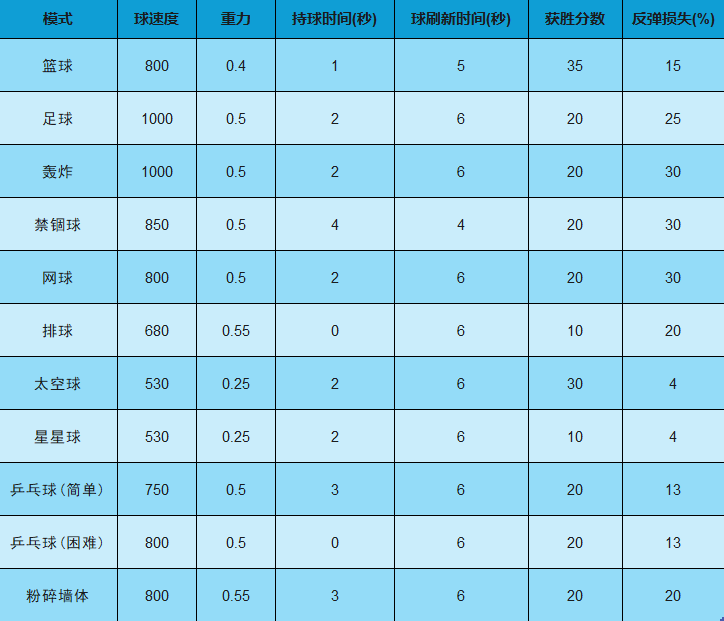
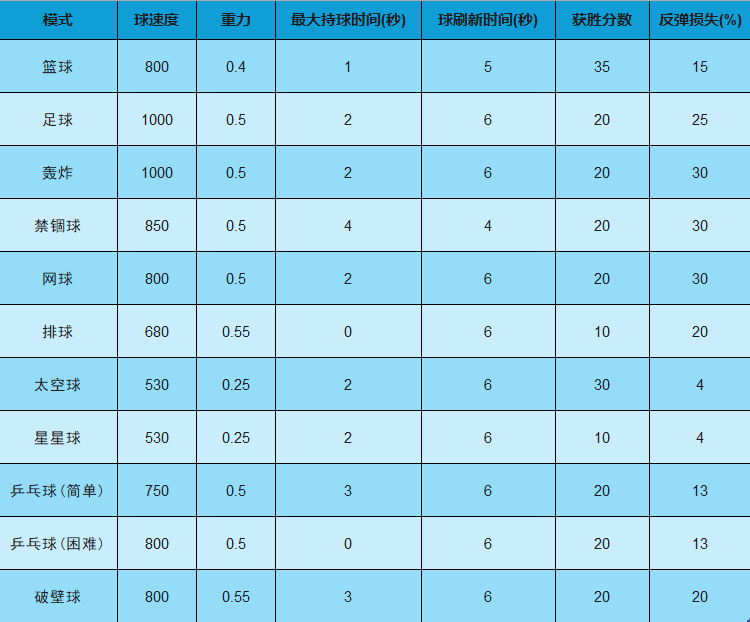
footwiki的保存

diff --git a/docs/modes/foot.md b/docs/modes/foot.md
@@ -1,86 +1,87 @@
 # Foot
-Foot，即[teefoot](https://github.com/unique-clan/football)，中文名称“球类运动”，最初由[unique-clan](https://github.com/unique-clan)团队发起制作。根据其官方自述文件，该项目目前由开发者 **GreYFoX** (又名 Shereef Marzouk) 负责重构。
+Foot，即[teefoot(football)](https://github.com/unique-clan/football)，中文俗称“球类运动”，是一款由[unique-clan](https://github.com/unique-clan)团队发起的休闲模式。根据其官方自述文档，该项目目前由开发者 **GreYFoX** (又名 Shereef Marzouk) 负责其重构工作。
 
 
 ## 模式玩法
-玩家分为人数均衡的两队进行对抗。每轮游戏开始一段时间后，场上固定区域会刷新出**可拾取的榴弹炮**，下文称之为**球**:
+玩家分为人数均衡的两队进行对抗。每轮游戏开始一段时间后，场上固定区域会刷新出一个可拾取的**榴弹炮**，它在此模式中将作为**“球”**使用。
 
 ![球](resources/foot/ball.jpg){.bordered-img tooltip="球"}
 
-触碰球玩家可将其捡起，并可以以任意角度进行发射。
+玩家触碰后即可拾取球，并可以向任意角度**投出**。
 
 ![射出的球](resources/foot/entityball.jpg){.bordered-img tooltip="射出的球"}
 
-将球射入球门后立即开始计算得分并结束本轮游戏，所有玩家重生。任意一队的分数达到规定分数后本局游戏结束。
+成功将球**射入**球门后，即会判定得分并结束本轮，所有玩家将立即重生，准备下一轮对抗。任意一队的分数达到规定分数后本局游戏结束。
 
 ### 关于球
-刷新出球后，聊天区会显示“**Ball Respawned**（球已刷新）”，此时任何玩家都可将其捡起。取走球后若持球玩家长时间不发射，则球会自动发射(护盾量为持球最大时长)。 持球者重生后，球会向着玩家重生前面向的方向自动发射。任何玩家都可以锤击持球玩家来抢夺其持有的球。
+当球刷新在场上时，聊天区会显示“**Ball Respawned**（球已刷新）”，此时任何玩家都可将其捡起。持球玩家若长时间未将球**投出**，球将会被自动**投出**（持球者的护盾值即为最大持球时间的倒计时）。持球者重生后，球会自动朝其重生时面向的方向飞出。任何玩家都可以通过**锤击**持球者来**抢断**此球。
 
 ![正在抢球的红蓝队玩家](resources/foot/catch.jpg){.bordered-img tooltip="正在抢球的红蓝队玩家"}
 
-若球在非榴弹枪状态下长时间无人取走，球会自行消失，并在一段时间后以榴弹枪的形式再次出现在刷新点。
+若场上的球长时间无人拾取，它会自行消失，并在一段时间后以榴弹炮的形式再次出现在刷新点。
 
 ### 得分
 **正常得分**
 
-一名玩家将球射入对手方球门时，记一次正常得分。屏幕会显示“XXX scored for red/blue team（XXX玩家为红/蓝队伍得分）”。
+一名玩家将球射入敌方球门时，记一次正常得分。屏幕会显示“XXX scored for red/blue team（XXX玩家为红/蓝队伍得分）”。
 
 **乌龙球**
 
 一名玩家将球射入己方球门时，记一次乌龙球。屏幕会显示“XXX scored for red/blue team（XXX玩家为红/蓝队伍得分）”。
 
-**传球得分**
+**助攻得分**
 
-若进球者的球在短时间内来自于其他玩家传来的球，则记一次传球得分，屏幕会显示“XXX scored for red/blue team with a pass from YYY（XXX玩家因YYY的传球而为红/蓝队伍得分）”。
+若进球者的球在短时间内来自于其他玩家的传球，则记一次助攻得分。屏幕会显示“XXX scored for red/blue team with a pass from YYY（XXX玩家因YYY的助攻而为红/蓝队伍得分）”。
 
 
 ### 模式
 不同模式下的球类玩法大不相同。
 
-- **足球 (football)**
-  得分方式：把球射进两队的球门中得分。
+- **足球 (football)**  
+  将球射入对方球门即可得分。
 
-- **篮球 (basketball)**
-  得分方式：把球射进两队上方的篮框中得分。 篮球模式共有五张地图，分别为1.0、2.0、3.0、4.0以及1.0的缩小版，其中1.0为最经典的地图。
-    - **特殊机制**: 启用了特殊的扣篮系统。
+- **篮球 (basketball)**  
+  将球投进两队上方的篮框中即可得分。篮球模式共有五张地图，分别为1.0、2.0、3.0、4.0以及1.0的缩小版，其中1.0为最经典的地图。
+    - **特殊机制**: 启用了独特的扣篮系统。
 
-- **轰炸 (bombing)**
-  类似于篮球，地图地形更为复杂，且球门变为两堵竖直墙体。
+- **轰炸 (bombing)**  
+  玩法类似于篮球，但地图地形更为复杂，且球门变为两堵竖直墙体。
 
-- **禁锢球 (soulball)**
-  禁锢球模式中，每名玩家都站在由即死区域围成的一小块范围内。 球出现在场地的上方，玩家可以释放钩索来争取发球权。 得分方式：把球射进球门得分。
+- **禁锢球 (soulball)**  
+  在该模式中，每名玩家都站在由即死区域围成的一小块范围内。球出现在场地上方，玩家可以释放钩索来争取发球权。将球射进球门即可得分。
 
-- **网球 (tennis)**
-  网球模式的地图中通常会出现绿色高台和用来分隔两队的即死区域。 得分方式：把球射进高台之外的地面上得分。
+- **网球 (tennis)**  
+  网球模式的地图中通常会出现绿色高台和用来分隔两队的即死区域。将球打到高台之外的地面上即可得分。
     - **Bug**：嵌入即死区域的球刷新点不会杀掉玩家，这会导致玩家有时可以通过球刷新点来穿过即死区域。
 
-- **排球 (volleyball)**
-  排球模式的地图中通常存在网，网的性质类似于网球模式中的即死区域，网的两侧存在地面和水面。 得分方式：把球射进地面上得分，射进水面不得分。 排球模式共有春、夏、秋、冬四张季节主题的地图。
+- **排球 (volleyball)**  
+  排球模式的地图中通常存在网，网的两侧为地面和水面。将球打到对方地面即可得分，射进水面不得分。该模式共有春、夏、秋、冬四张季节主题的地图。
     - **特殊机制**: 完全禁用钩子功能。
     - *注*：排球模式中的网与网球模式中有相同的bug。
 
-- **太空球 (spaceball)**
-  太空球模式下，玩家受到的重力会降低。同时球和球门都隐藏在即死区域当中。 得分方式：把球射进球门中得分。
+- **太空球 (spaceball)**  
+  在太空球模式下，玩家受到的重力会降低，同时球和球门都隐藏在即死区域当中。将球射进球门即可得分。
     - **特殊机制**: 设置了重生延迟。
 
-- **星星球 (starsball)**
+- **星星球 (starsball)**  
   类似于太空球，同样具有低重力和重生延迟。
 
-- **乒乓球 (tabletennis)**
-  乒乓球模式下有即死区域组成的高台与屏障。 得分方式：把球扔到高台外的地面得分。
+- **乒乓球 (tabletennis)**  
+  乒乓球模式下有即死区域组成的高台与屏障。将球扔到高台外的地面即可得分。
     - *注*：乒乓球模式和网球模式有同样的bug。
 
-- **粉碎墙体 (wallsmash)**
-  类似于网球，不同点在于多了一块踏板。 得分方式：把球射进球门得分。
+- **破壁球 (wallsmash)**  
+  玩法类似于网球，不同点在于多了一块踏板。将球射进球门即可得分。
 
-## 服务器配置变量
-- `sv_ball_respawn`: 控制球刷新时间。
-- `sv_keeptime`: 控制最大持球时间。
-- `sv_basket`: 启用/禁用篮球的扣篮系统。
-- `player_hooking`: 控制钩子功能开关。
+## 服务器配置变量  
+
+- `sv_ball_respawn`: 用于控制球的刷新间隔时间。
+- `sv_keeptime`: 用于控制玩家的最大持球时间。
+- `sv_basket`: 用于启用或禁用篮球的扣篮系统。
+- `player_hooking`: 用于控制钩子功能的全局开关。
 
 ## 参数对比
-![各模式参数对比表](resources/foot/info.jpg)
+![各模式参数对比表](resources/foot/info.jpg){.bordered-img tooltip="各模式参数对比表"}
 
 ## 官方分支贡献者
 <details>
